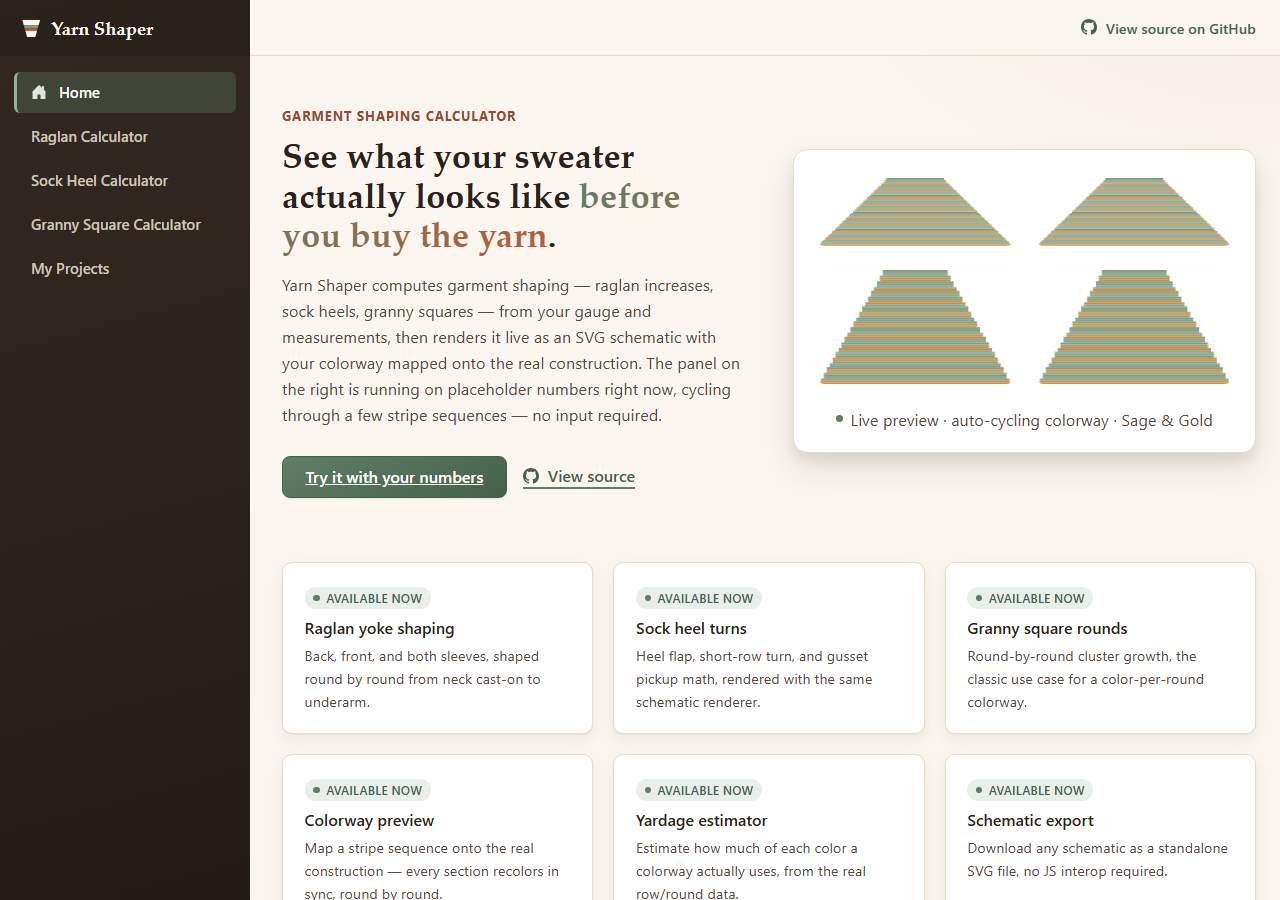
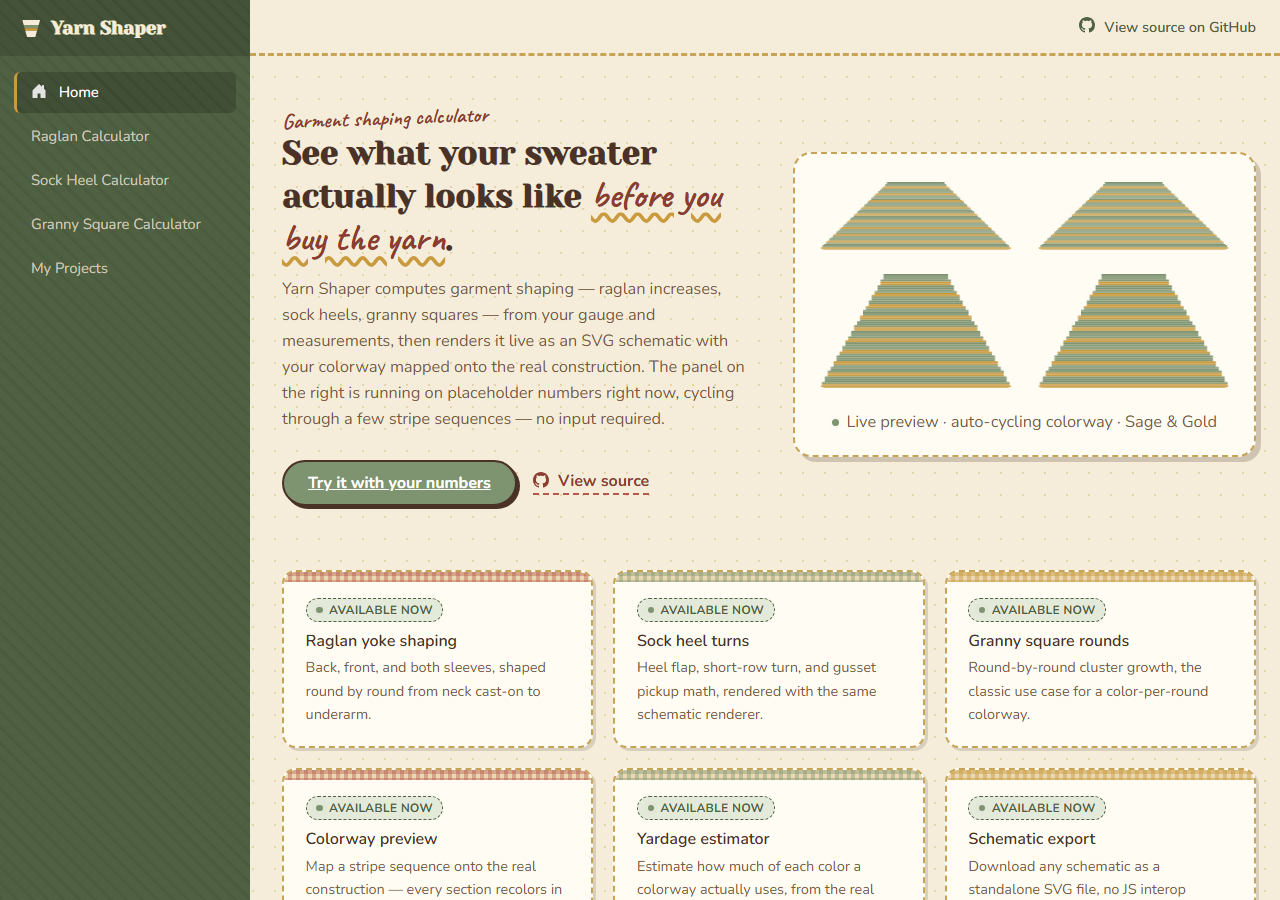
Update README for the vintage cottagecore/sampler reskin
Regenerate all four screenshots against the new aesthetic (stitched
borders, gingham ribbons, script accents, warm linen palette). Add a
short note on the visual direction to the intro, and update "What's
next" to reflect that the mobile responsiveness audit is done —
verified down to 320px, not just an open item anymore.

diff --git a/README.md b/README.md
@@ -9,6 +9,13 @@ browser; a few browser APIs that C# genuinely can't reach on its own
 (localStorage, the clipboard, print) are called through minimal, targeted
 JS interop for the save/share/export features, and nowhere else.
 
+The look is deliberately not another sleek SaaS dashboard: it leans into a
+whimsical grandma-craft-room aesthetic — stitched dashed borders, a
+gingham ribbon on the feature cards, a handwritten script accent, hard
+"stamped" button shadows instead of soft modern glow — closer to a
+cross-stitch sampler or a 1970s pattern book than a component library
+demo.
+
 **Live demo:** [mollygilchrist03.github.io/YarnShaper](https://mollygilchrist03.github.io/YarnShaper/)
 
 ![Home page — a live raglan schematic auto-cycling through preset colorways, no input required](docs/screenshots/home.png)
@@ -234,11 +241,10 @@ dotnet run --project src/YarnShaper.Web
 
 Every calculator from the original build plan, plus construction coverage
 (raglan ease and top-down/bottom-up, three sock heel styles, any granny
-motif corner count), save/share/export, input validation, and an
-accuracy-tested foundation are shipped. What's left:
+motif corner count), save/share/export, input validation, an
+accuracy-tested foundation, and a responsive layout audited down to
+320px-wide phones are shipped. What's left:
 
-- **Mobile responsiveness.** The three calculator pages and the schematic
-  renderer haven't been audited at phone-width viewports yet.
 - **PWA support.** A manifest and service worker would make the app
   installable and usable offline — genuinely low-cost here, since every
   calculator is already 100% client-side with no network dependency at
